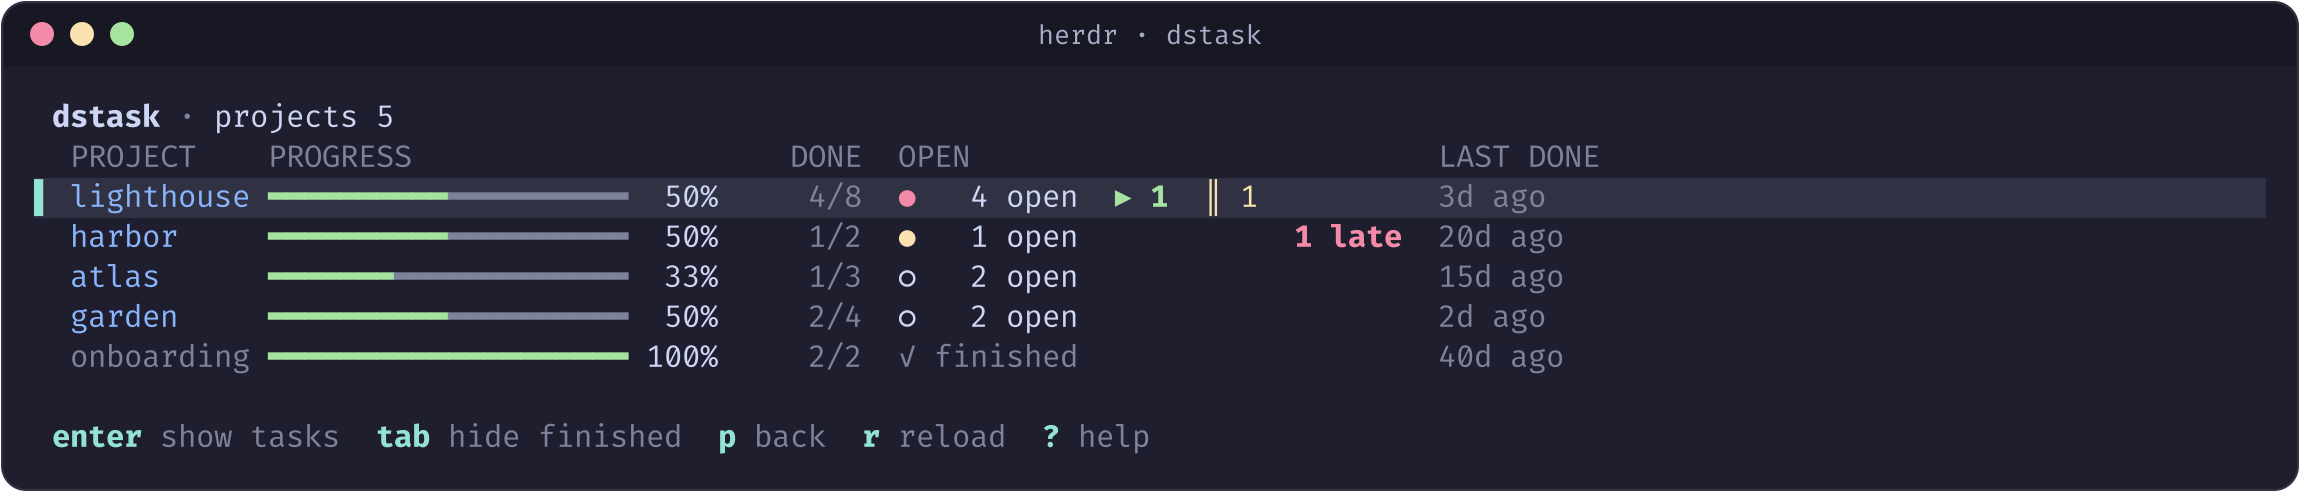
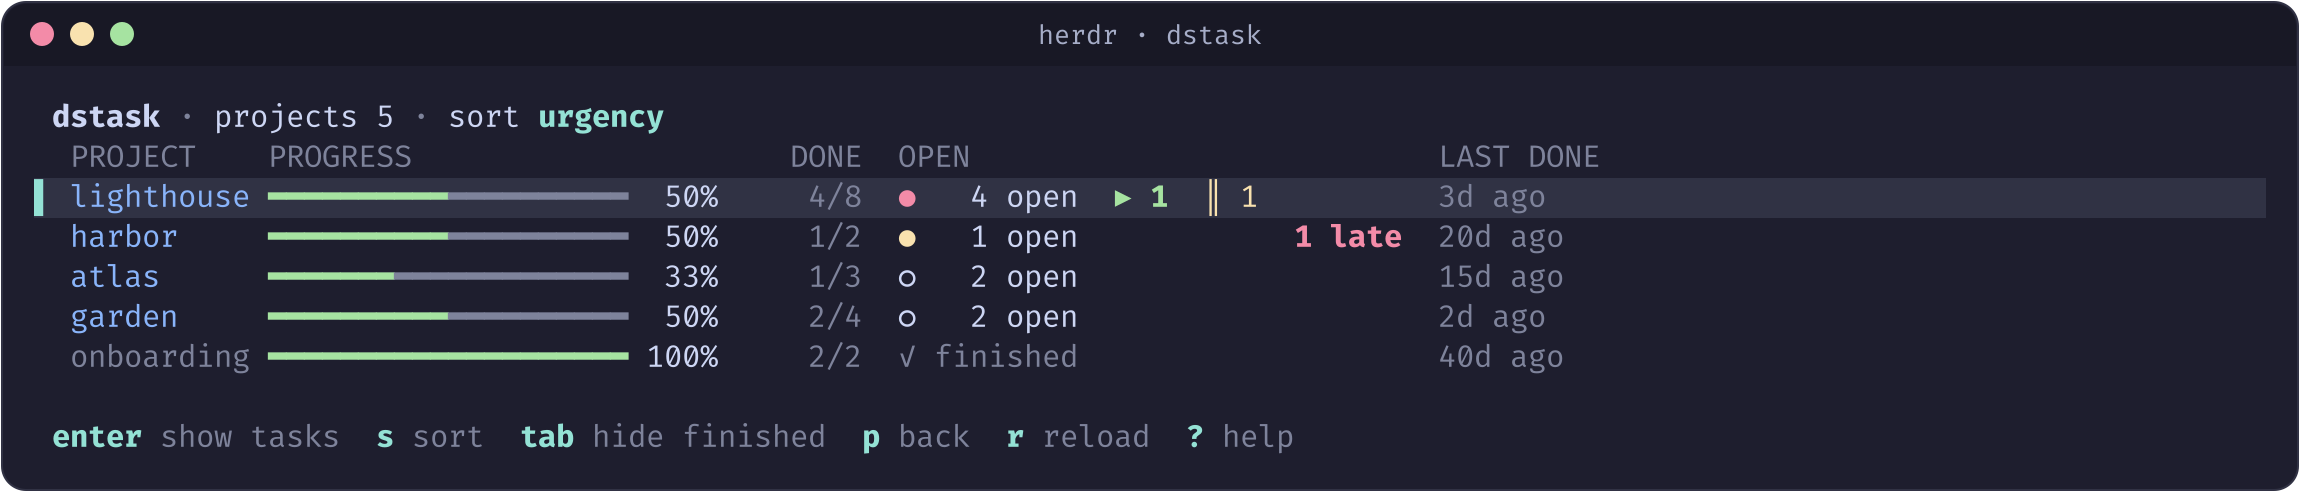
feat: sort the project view by urgency, progress, open or last done
s and S cycle the order, the header names it, and a ▾ marks the sorted
column. A new order starts again at the first project. Finished projects
stay last in every order, so under the progress order they do not fill
the top rows at 100%.

Claude-Session: https://claude.ai/code/session_01A2mSsHRW8kFRtoxAN8xBux

Changed region(s): [[0.1543, 0.8537, 0.5557, 0.9146], [0.1852, 0.2134, 0.3087, 0.2744]]

diff --git a/internal/ui/projects.go b/internal/ui/projects.go
@@ -17,6 +17,45 @@ import (
 // barWidth is the number of cells in a progress bar.
 const barWidth = 20
 
+// projectSort is an order for the project view. s and S cycle through them.
+type projectSort int
+
+const (
+	sortUrgency  projectSort = iota // highest open priority first
+	sortProgress                    // most done first
+	sortOpen                        // most open tasks first
+	sortLastDone                    // most recently finished task first
+	projectSorts                    // the number of orders
+)
+
+var projectSortNames = [projectSorts]string{"urgency", "progress", "open", "last done"}
+
+func (s projectSort) String() string { return projectSortNames[s] }
+
+// less orders two open projects. Every order falls back to the name, so the
+// result never depends on the order the library returned.
+func (s projectSort) less(a, b store.Project) bool {
+	switch s {
+	case sortProgress:
+		if a.Done() != b.Done() {
+			return a.Done() > b.Done()
+		}
+	case sortOpen:
+		if a.OpenTasks() != b.OpenTasks() {
+			return a.OpenTasks() > b.OpenTasks()
+		}
+	case sortLastDone:
+		if !a.Resolved.Equal(b.Resolved) {
+			return a.Resolved.After(b.Resolved) // never finished sorts last
+		}
+	default:
+		if a.Priority != b.Priority {
+			return a.Priority < b.Priority
+		}
+	}
+	return a.Name < b.Name
+}
+
 // projectsMsg carries a fresh project list.
 type projectsMsg struct {
 	projects []store.Project
@@ -41,9 +80,10 @@ func (m Model) openProjects() (tea.Model, tea.Cmd) {
 
 // setProjects sorts the projects and keeps the cursor on the same project.
 //
-// Projects with open tasks come first, most urgent first: by their highest
-// open priority, then by name. Finished projects follow, most recently
-// finished first, and only when the view shows them.
+// Projects with open tasks come first, in the chosen order. Finished projects
+// always follow, most recently finished first, and only when the view shows
+// them. Under the progress order they would otherwise fill the top rows at
+// 100%, above the projects that still need work.
 func (m *Model) setProjects(all []store.Project) {
 	keep := ""
 	if p, ok := m.selectedProject(); ok {
@@ -64,10 +104,7 @@ func (m *Model) setProjects(all []store.Project) {
 		if a.OpenTasks() == 0 {
 			return a.Resolved.After(b.Resolved)
 		}
-		if a.Priority != b.Priority {
-			return a.Priority < b.Priority
-		}
-		return a.Name < b.Name
+		return m.psort.less(a, b)
 	})
 	m.pcursor = 0
 	for i, p := range m.projects {
@@ -147,6 +184,19 @@ func (m Model) updateProjects(msg tea.KeyMsg) (tea.Model, tea.Cmd) {
 		m.showFinished = !m.showFinished
 		m.setProjects(m.allProjects)
 		return m, nil
+	case "s", "S":
+		step := projectSort(1)
+		if msg.String() == "S" {
+			step = projectSorts - 1
+		}
+		m.psort = (m.psort + step) % projectSorts
+		// A new order is a request to see a different top of the list, so
+		// the view returns to the first project, as the switcher does.
+		m.pcursor = 0
+		m.setProjects(m.allProjects)
+		m.pcursor = 0
+		m.clampProjects()
+		return m, nil
 	case "r":
 		m.projectsLoading = true
 		return m, m.loadProjects()
@@ -190,7 +240,7 @@ func (m Model) viewProjects() string {
 	b.WriteByte('\n')
 
 	cols := m.projectColumns()
-	b.WriteString(styleDim.Render(fit(cols.header(), m.width)))
+	b.WriteString(styleDim.Render(fit(cols.header(m.psort), m.width)))
 	b.WriteByte('\n')
 
 	rows := m.projectRows()
@@ -227,6 +277,7 @@ func (m Model) projectsHeader() string {
 	if n := m.finishedProjects(); n > 0 && !m.showFinished {
 		parts = append(parts, styleDim.Render(fmt.Sprintf("%d finished hidden", n)))
 	}
+	parts = append(parts, "sort "+styleKey.Render(m.psort.String()))
 	if m.projectsLoading {
 		parts = append(parts, styleDim.Render("…"))
 	}
@@ -244,7 +295,7 @@ func (m Model) projectsFooter() string {
 	if m.showFinished {
 		finished = "hide finished"
 	}
-	return hints(m.width, "enter", "show tasks", "tab", finished, "p", "back", "r", "reload", "?", "help")
+	return hints(m.width, "enter", "show tasks", "s", "sort", "tab", finished, "p", "back", "r", "reload", "?", "help")
 }
 
 // projectCols are the widths of the columns that vary, measured over every
@@ -255,14 +306,23 @@ type projectCols struct {
 }
 
 // header lines the column titles up with the cells that projectRow draws.
-func (c projectCols) header() string {
-	h := fmt.Sprintf("  %-*s %-*s %4s %7s  %-*s", c.name, "PROJECT", barWidth, "PROGRESS", "", "DONE", 2+c.open, "OPEN")
+// A ▾ marks the column the view is sorted by. The urgency order has no
+// column of its own, and the header names it instead.
+func (c projectCols) header(s projectSort) string {
+	mark := func(title string, by projectSort) string {
+		if s == by {
+			return title + " ▾"
+		}
+		return title
+	}
+	h := fmt.Sprintf("  %-*s %-*s %4s %7s  %-*s", c.name, "PROJECT", barWidth, mark("PROGRESS", sortProgress),
+		"", "DONE", 2+c.open, mark("OPEN", sortOpen))
 	for _, w := range []int{c.active, c.paused, c.late} {
 		if w > 0 {
 			h += strings.Repeat(" ", 2+w)
 		}
 	}
-	return h + "  LAST DONE"
+	return h + "  " + mark("LAST DONE", sortLastDone)
 }
 
 func (m Model) projectColumns() projectCols {

diff --git a/internal/ui/projects_test.go b/internal/ui/projects_test.go
@@ -243,3 +243,85 @@ func TestShortAge(t *testing.T) {
 		}
 	}
 }
+
+// sortProjects has open projects that differ in every sort key, plus one
+// finished project that must stay last in every order.
+func sortProjects() []store.Project {
+	mk := func(name, priority string, tasks, resolved, daysAgo int) store.Project {
+		p := project(name, priority, tasks, resolved)
+		if daysAgo > 0 {
+			p.Resolved = testNow.Add(-time.Duration(daysAgo) * 24 * time.Hour)
+		}
+		return p
+	}
+	return []store.Project{
+		mk("alpha", "P2", 10, 9, 20), // 90% done, 1 open
+		mk("bravo", "P0", 10, 2, 1),  // 20% done, 8 open, newest
+		mk("charlie", "P1", 4, 2, 5), // 50% done, 2 open
+		mk("delta", "P1", 3, 0, 0),   // 0% done, 3 open, never finished one
+		mk("echo", "P2", 2, 2, 2),    // finished
+	}
+}
+
+func TestProjectSortOrders(t *testing.T) {
+	m := startProjects(t, &fake{open: tasks(), projects: sortProjects()})
+	m = drive(t, m, key("tab")) // show the finished project too
+	for _, c := range []struct {
+		sort  string
+		order string
+		mark  string
+	}{
+		{"urgency", "bravo,charlie,delta,alpha,echo", ""},
+		{"progress", "alpha,charlie,bravo,delta,echo", "PROGRESS ▾"},
+		{"open", "bravo,delta,charlie,alpha,echo", "OPEN ▾"},
+		{"last done", "bravo,charlie,alpha,delta,echo", "LAST DONE ▾"},
+	} {
+		if m.psort.String() != c.sort {
+			t.Fatalf("sort = %s, want %s", m.psort, c.sort)
+		}
+		if got := names(m.projects); got != c.order {
+			t.Errorf("%s: order = %s, want %s", c.sort, got, c.order)
+		}
+		view := m.View()
+		if !strings.Contains(view, "sort ") || !strings.Contains(view, c.sort) {
+			t.Errorf("%s: header does not name the order", c.sort)
+		}
+		if c.mark != "" && !strings.Contains(view, c.mark) {
+			t.Errorf("%s: header lacks %q", c.sort, c.mark)
+		}
+		if c.mark == "" && strings.Contains(view, "▾") {
+			t.Errorf("urgency has no column to mark")
+		}
+		m = drive(t, m, key("s"))
+	}
+	if m.psort != sortUrgency {
+		t.Errorf("s should wrap round to urgency, got %s", m.psort)
+	}
+	m = drive(t, m, key("S"))
+	if m.psort != sortLastDone {
+		t.Errorf("S should go back to last done, got %s", m.psort)
+	}
+}
+
+// A new order returns to the first project, but a reload keeps the place.
+func TestProjectSortReturnsToTheTop(t *testing.T) {
+	f := &fake{open: tasks(), projects: sortProjects()}
+	m := startProjects(t, f)
+	m = drive(t, m, key("j"), key("j"))
+	if p, _ := m.selectedProject(); p.Name != "delta" {
+		t.Fatalf("setup: on %s", p.Name)
+	}
+	m = drive(t, m, key("r"))
+	if p, _ := m.selectedProject(); p.Name != "delta" {
+		t.Errorf("reload moved the cursor to %s", p.Name)
+	}
+	m = drive(t, m, key("s"))
+	if m.pcursor != 0 {
+		t.Errorf("a new order should start at the top, cursor=%d", m.pcursor)
+	}
+	// The order survives a trip to the task list and back.
+	m = drive(t, m, key("p"), key("p"))
+	if m.psort != sortProgress {
+		t.Errorf("sort = %s after leaving the view, want progress", m.psort)
+	}
+}

diff --git a/internal/ui/view.go b/internal/ui/view.go
@@ -412,6 +412,7 @@ func (m Model) viewHelp() string {
 		{"", ""},
 		{"projects", ""},
 		{"enter", "show the open tasks of the project"},
+		{"s S", "sort by urgency, progress, open or last done"},
 		{"tab", "show or hide finished projects"},
 		{"p esc", "back to the tasks"},
 	}

diff --git a/internal/ui/model.go b/internal/ui/model.go
@@ -93,6 +93,7 @@ type Model struct {
 	projects        []store.Project
 	showFinished    bool
 	projectsLoading bool
+	psort           projectSort
 	pcursor         int
 	poffset         int
 

diff --git a/README.md b/README.md
@@ -75,9 +75,20 @@ done, the done and total counts, and its highest open priority with the
 number of open tasks. Then it shows how many tasks are active (`▶`), paused
 (`‖`) and late, and when a task of the project was last finished.
 
-The most urgent projects come first: by their highest open priority, then by
-name. Finished projects, with no open tasks, are hidden, and the header says
-how many. `tab` shows them at the end, the most recently finished first.
+`s` and `S` change the order, and the header names it. A `▾` marks the sorted
+column:
+
+| order | first |
+|---|---|
+| urgency (the default) | the highest open priority, then by name |
+| progress | the largest part done |
+| open | the most open tasks |
+| last done | the most recently finished task |
+
+A new order starts again at the first project. Finished projects, with no
+open tasks, are hidden, and the header says how many. `tab` shows them. In
+every order they come last, the most recently finished first, so they do not
+push the unfinished projects down.
 
 `enter` returns to the task list with the filter `project:name`, so the list
 shows only that project's open tasks. `esc` clears the filter.
@@ -135,8 +146,9 @@ In the task view, `j` `k` `g` `G` `ctrl+d` `ctrl+u` scroll the notes, `r`
 reloads, and `esc` `h` `←` go back to the list.
 
 In the project view, the movement and page keys are the same as in the list.
-`enter` shows the project's tasks, `tab` shows or hides finished projects,
-`r` reloads, and `p` or `esc` goes back to the list.
+`enter` shows the project's tasks, `s` and `S` change the order, `tab` shows
+or hides finished projects, `r` reloads, and `p` or `esc` goes back to the
+list.
 
 ## Environment
 
